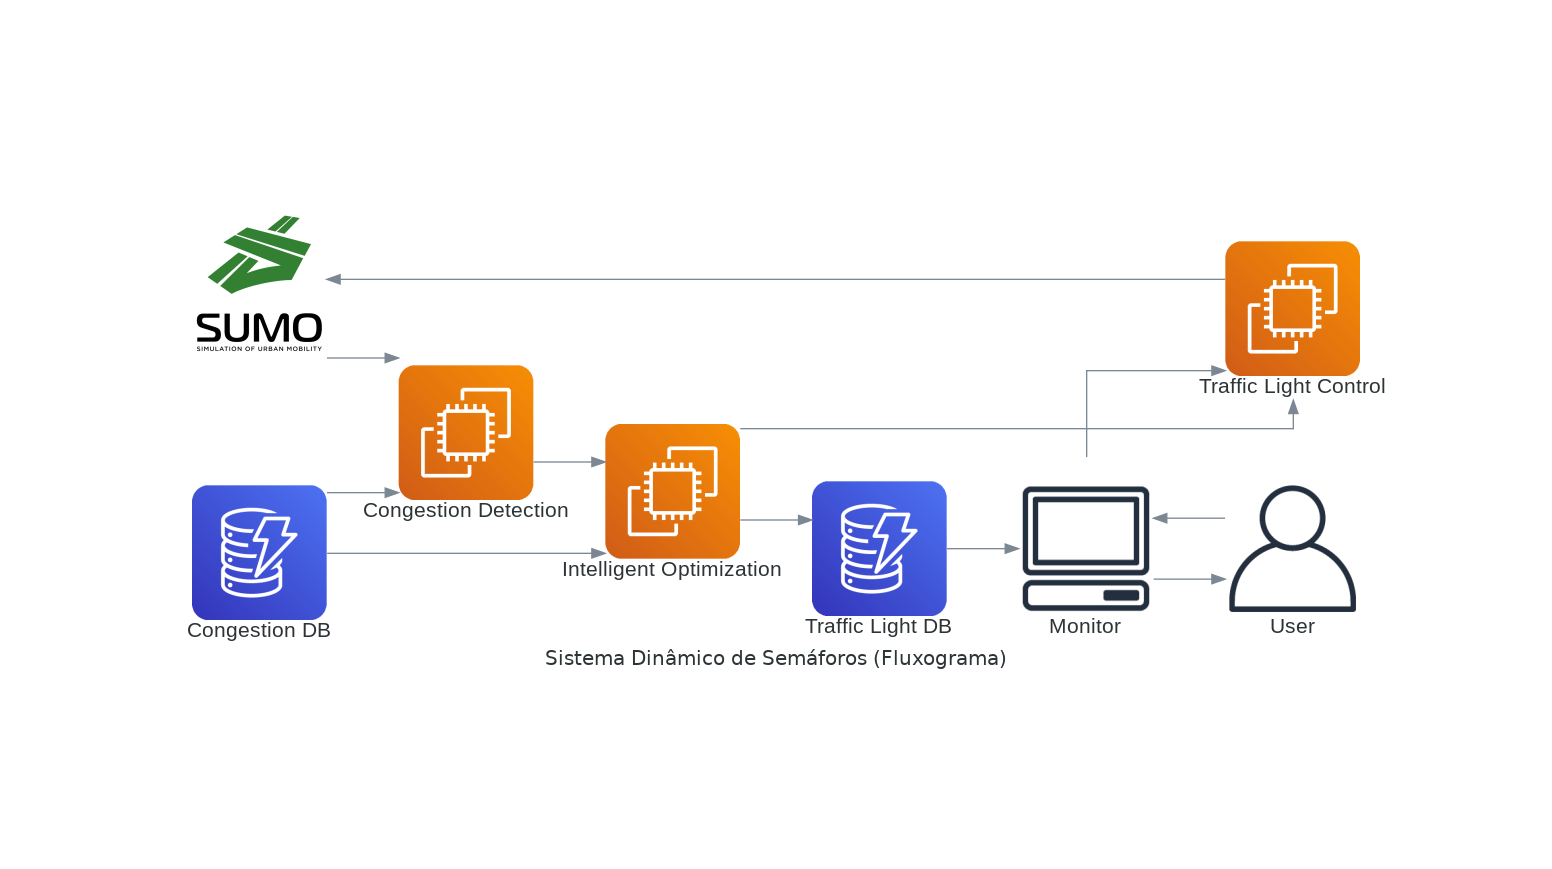
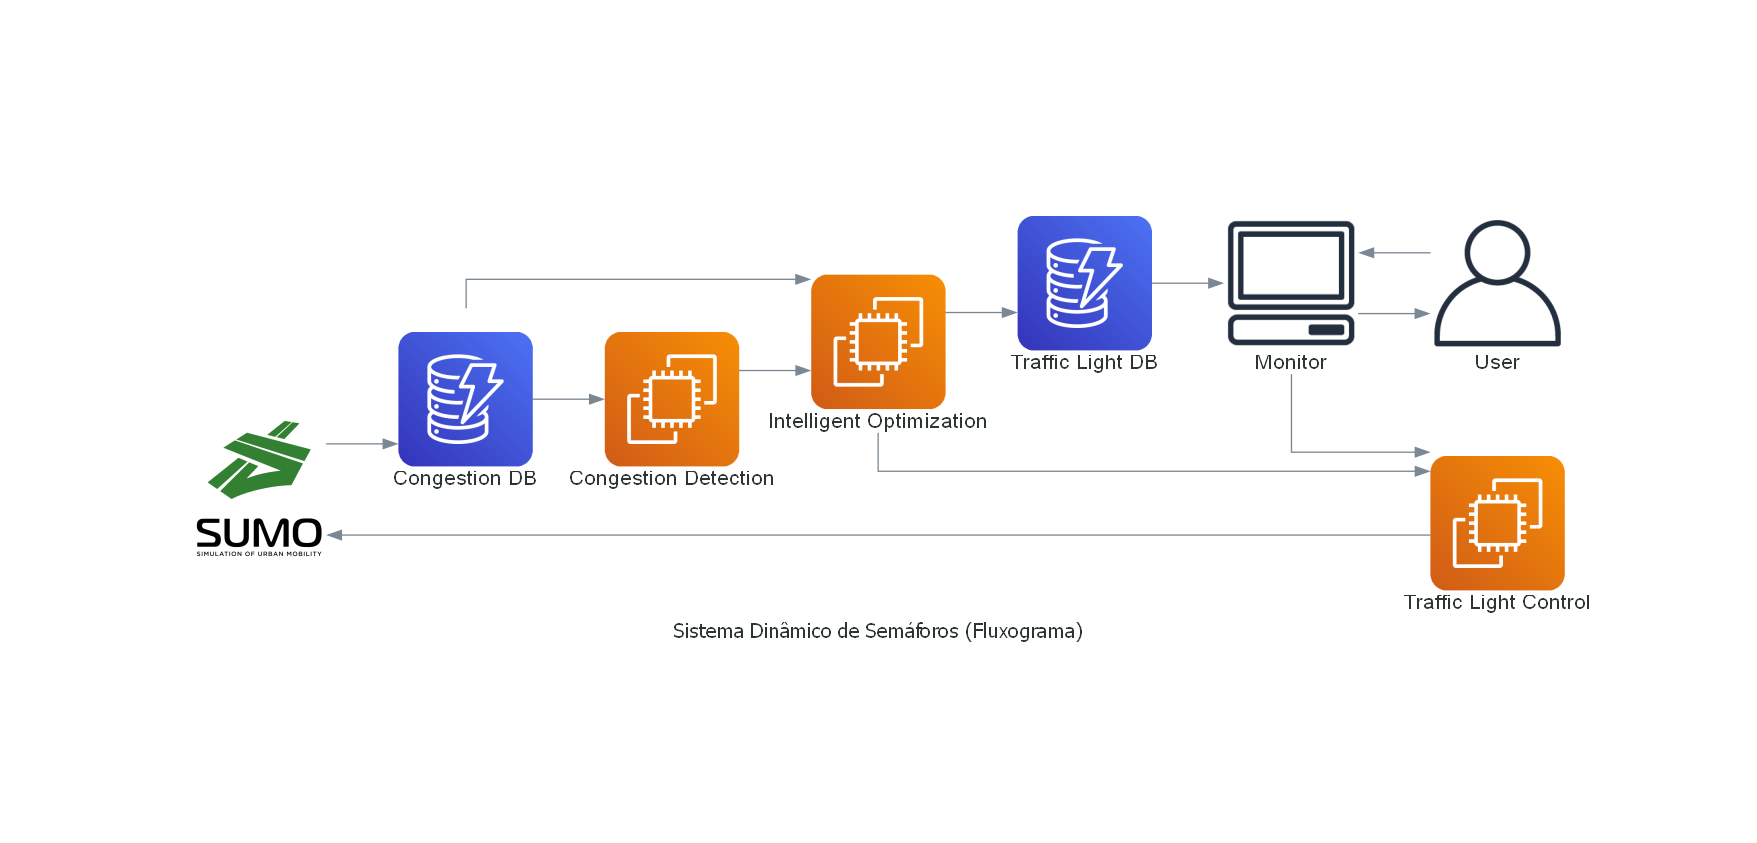
Corrigindo erro: Sumo >> Detc_Cong to Sumo >> Db

Changed region(s): [[0.0928, 0.2467, 0.8969, 0.7711], [0.7732, 0.5243, 0.8969, 0.7402]]

diff --git a/Diagrams/Diagrams_new.py b/Diagrams/Diagrams_new.py
@@ -18,7 +18,7 @@ with Diagram("Sistema Dinâmico de Semáforos (Fluxograma)", show=False, node_at
     monitor = Client("Monitor")
     user = User("User")
 
-    sumo >> congestion_detec
+    sumo >> db_cong
     db_cong >> congestion_detec
     congestion_detec >> inteligent_optimization
     db_cong >> inteligent_optimization
